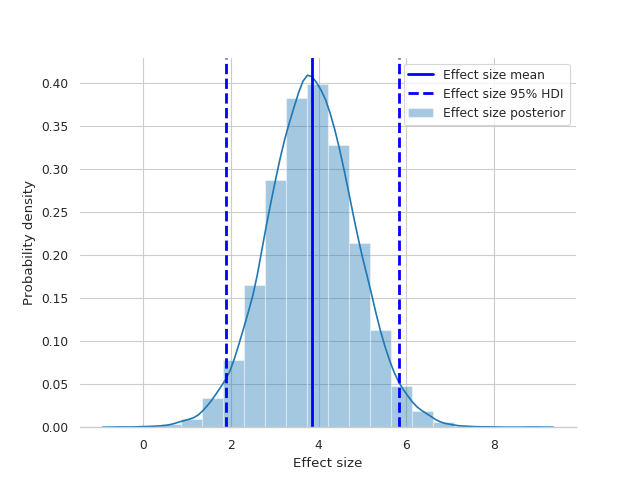
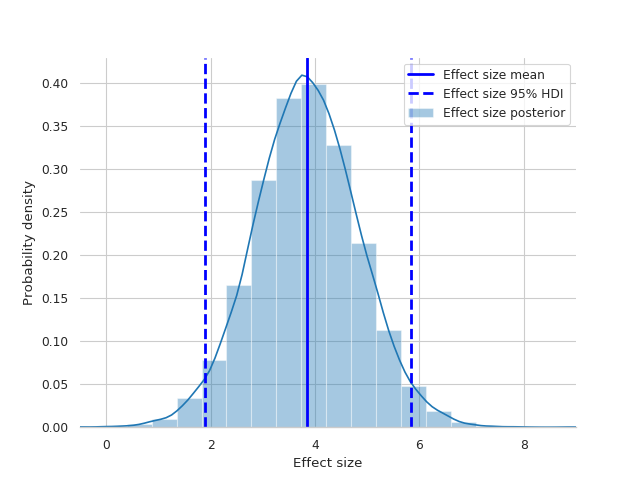
Did the last changes before submission

Changed region(s): [[0.1562, 0.125, 0.7812, 0.9375], [0.8125, 0.9062, 0.8438, 0.9375]]

diff --git a/06-assignment/run.py b/06-assignment/run.py
@@ -54,9 +54,10 @@ def point_1(fit, fit_summary):
 
     child_correction_effect_size = child_posterior_correction / np.std(child_posterior_correction)
 
-    print(f'Adult HDI: {adult_hdi}')
-    print(f'Child HDI: {child_hdi}')
-    print(f'Difference HDI: {diff_hdi}')
+    print(f'Adult mean: {adult_mean:.2f}, HDI: {adult_hdi}')
+    print(f'Child mean: {child_mean:.2f}, HDI: {child_hdi}')
+    print(f'Difference mean: {diff_mean:.2f}, HDI: {diff_hdi}')
+    print(f'Effect mean: {np.mean(child_correction_effect_size):.2f}, HDI: {hdi(child_correction_effect_size)}')
 
     plt.figure()
     sns.distplot(adult_posterior_mu, bins=20, norm_hist=True, label='Adult log posterior μ')
@@ -85,6 +86,7 @@ def point_1(fit, fit_summary):
     sns.despine(left=True)
     plt.xlabel('Difference in posterior log reaction times')
     plt.ylabel('Probability density')
+    plt.xlim(-0.1, 0.9)
     plt.savefig('06-assignment/normal/posterior_log_reaction_difference.png')
 
     plt.figure()
@@ -94,6 +96,7 @@ def point_1(fit, fit_summary):
     sns.despine(left=True)
     plt.xlabel('Effect size')
     plt.ylabel('Probability density')
+    plt.xlim(-0.5, 9)
     plt.savefig('06-assignment/normal/effect_size.png')
 
 def point_2(fit, fit_summary):
@@ -108,6 +111,10 @@ def point_2(fit, fit_summary):
     tau_diff = posterior_tau_task_6 - posterior_tau_task_5
     diff_mean = np.mean(tau_diff)
     diff_hdi = hdi(tau_diff)
+    diff_effect = tau_diff / np.std(tau_diff)
+
+    print(f'τ difference mean: {diff_mean:.2f}, HDI: {diff_hdi}')
+    print(f'Effect on τ mean: {np.mean(diff_effect):.2f}, HDI: {hdi(diff_effect)}')
 
     plt.figure()
     plot_dist_mean_hdi(posterior_tau_task_6, color='b', label='Task 6')
@@ -119,8 +126,28 @@ def point_2(fit, fit_summary):
     plt.ylabel('Probability density')
     plt.savefig('06-assignment/normal/posterior_tau_comparison.png')
 
-def point_3():
-    print('Instructions unclear')
+def point_3(fit, fit_summary):
+    #adult_mean = fit_summary
+    adult_mean = fit_summary.loc['mu[1]', 'mean']
+    child_mean = fit_summary.loc['mu[1]', 'mean'] + fit_summary.loc['mu[2]', 'mean']
+    single_mean_task_5 = 5.76
+    standard_deviation_task_5 = 0.28
+    standard_deviation = fit_summary.loc['tau', 'mean']
+    log_reaction_time = np.linspace(4.5, 7, 1001)
+
+    adult_pdf = stats.norm.pdf(log_reaction_time, adult_mean, standard_deviation)
+    child_pdf = stats.norm.pdf(log_reaction_time, child_mean, standard_deviation)
+    task_5_pdf = stats.norm.pdf(log_reaction_time, single_mean_task_5, standard_deviation_task_5)
+
+    plt.figure()
+    sns.lineplot(log_reaction_time, adult_pdf, label='Adult')
+    sns.lineplot(log_reaction_time, child_pdf, label='Child')
+    sns.lineplot(log_reaction_time, task_5_pdf, label='Task 5')
+
+    plt.ylabel('Probability density')
+    plt.xlabel('Log reaction time')
+    sns.despine(left=True)
+    plt.savefig('06-assignment/normal/prior_pdfs.png')
 
 def point_4(fit, fit_summary):
     num_posterior_samples = (fit.sim['iter'] - fit.sim['warmup']) * fit.sim['chains']
@@ -140,7 +167,6 @@ def point_4(fit, fit_summary):
 
         new_person_theta = np.random.normal(new_person_mu_1 + new_person_mu_2 * is_child, new_person_tau)
         sample_log_reaction_time = np.random.normal(new_person_theta, new_person_sigma, (1, ))
-        #sample_reaction_times = np.exp(sample_log_reaction_times)
         random_person_samples_bernoulli[i] = sample_log_reaction_time
 
     # 10000 random people samples (uninformed with average)
@@ -154,7 +180,6 @@ def point_4(fit, fit_summary):
 
         new_person_theta = np.random.normal(new_person_mu_1 + new_person_mu_2 * 9 / 34, new_person_tau)
         sample_log_reaction_time = np.random.normal(new_person_theta, new_person_sigma, (1, ))
-        #sample_reaction_times = np.exp(sample_log_reaction_times)
         random_person_samples_average[i] = sample_log_reaction_time
 
     # 10000 random adults
@@ -167,7 +192,6 @@ def point_4(fit, fit_summary):
 
         new_person_theta = np.random.normal(new_person_mu_1, new_person_tau)
         sample_log_reaction_time = np.random.normal(new_person_theta, new_person_sigma, (1, ))
-        #sample_reaction_times = np.exp(sample_log_reaction_times)
         random_adult_samples[i] = sample_log_reaction_time
 
     # 10000 random children
@@ -206,6 +230,17 @@ def point_4(fit, fit_summary):
     plt.ylabel('Probability density')
     plt.savefig('06-assignment/normal/posterior_predictive_check.png')
 
+    plt.figure()
+    sns.distplot(np.exp(uninformed_random_people_samples), bins=20, norm_hist=True, label='Uninformed random person')
+    sns.distplot(np.exp(random_adult_samples), bins=20, norm_hist=True, label='Adult random person')
+    sns.distplot(np.exp(random_child_samples), bins=20, norm_hist=True, label='Child random person')
+
+    plt.legend()
+    sns.despine(left=True)
+    plt.xlabel('Reaction time (ms)')
+    plt.ylabel('Probability density')
+    plt.savefig('06-assignment/normal/posterior_predictive_check_ms.png')
+
 def main():
     with open('06-assignment/data.json') as json_file:
         data = json.load(json_file)
@@ -221,7 +256,7 @@ def main():
 
     point_1(fit, fit_summary)
     point_2(fit, fit_summary)
-    point_3()
+    point_3(fit, fit_summary)
     point_4(fit, fit_summary)
 if __name__ == '__main__':
     main()

diff --git a/06-assignment/run-student.py b/06-assignment/run-student.py
@@ -85,6 +85,7 @@ def point_1(fit, fit_summary):
     sns.despine(left=True)
     plt.xlabel('Difference in posterior log reaction times')
     plt.ylabel('Probability density')
+    plt.xlim(-0.1, 0.9)
     plt.savefig('06-assignment/student/posterior_log_reaction_difference.png')
 
     plt.figure()
@@ -94,6 +95,7 @@ def point_1(fit, fit_summary):
     sns.despine(left=True)
     plt.xlabel('Effect size')
     plt.ylabel('Probability density')
+    plt.xlim(-0.5, 9)
     plt.savefig('06-assignment/student/effect_size.png')
 
 def point_2(fit, fit_summary):
@@ -136,10 +138,11 @@ def point_4(fit, fit_summary):
         new_person_mu_2 = fit.extract('mu[2]')['mu[2]'][np.random.randint(num_posterior_samples)]
         new_person_tau = fit.extract('tau')['tau'][np.random.randint(num_posterior_samples)]
         new_person_sigma = fit.extract('sigma')['sigma'][np.random.randint(num_posterior_samples)]
+        new_person_nu = fit.extract('nu')['nu'][np.random.randint(num_posterior_samples)]
         is_child = np.random.binomial(1, 9/34, (1, ))
 
         new_person_theta = np.random.normal(new_person_mu_1 + new_person_mu_2 * is_child, new_person_tau)
-        sample_log_reaction_time = np.random.normal(new_person_theta, new_person_sigma, (1, ))
+        sample_log_reaction_time = stats.t.rvs(new_person_nu, new_person_theta, new_person_sigma, (1, ))
         #sample_reaction_times = np.exp(sample_log_reaction_times)
         random_person_samples_bernoulli[i] = sample_log_reaction_time
 
@@ -151,9 +154,11 @@ def point_4(fit, fit_summary):
         new_person_mu_2 = fit.extract('mu[2]')['mu[2]'][np.random.randint(num_posterior_samples)]
         new_person_tau = fit.extract('tau')['tau'][np.random.randint(num_posterior_samples)]
         new_person_sigma = fit.extract('sigma')['sigma'][np.random.randint(num_posterior_samples)]
+        new_person_nu = fit.extract('nu')['nu'][np.random.randint(num_posterior_samples)]
 
         new_person_theta = np.random.normal(new_person_mu_1 + new_person_mu_2 * 9 / 34, new_person_tau)
-        sample_log_reaction_time = np.random.normal(new_person_theta, new_person_sigma, (1, ))
+        sample_log_reaction_time = stats.t.rvs(new_person_nu, new_person_theta, new_person_sigma, (1, ))
+        #sample_log_reaction_time = np.random.normal(new_person_theta, new_person_sigma, (1, ))
         #sample_reaction_times = np.exp(sample_log_reaction_times)
         random_person_samples_average[i] = sample_log_reaction_time
 
@@ -164,9 +169,11 @@ def point_4(fit, fit_summary):
         new_person_mu_1 = fit.extract('mu[1]')['mu[1]'][np.random.randint(num_posterior_samples)]
         new_person_tau = fit.extract('tau')['tau'][np.random.randint(num_posterior_samples)]
         new_person_sigma = fit.extract('sigma')['sigma'][np.random.randint(num_posterior_samples)]
+        new_person_nu = fit.extract('nu')['nu'][np.random.randint(num_posterior_samples)]
 
         new_person_theta = np.random.normal(new_person_mu_1, new_person_tau)
-        sample_log_reaction_time = np.random.normal(new_person_theta, new_person_sigma, (1, ))
+        #sample_log_reaction_time = np.random.normal(new_person_theta, new_person_sigma, (1, ))
+        sample_log_reaction_time = stats.t.rvs(new_person_nu, new_person_theta, new_person_sigma, (1, ))
         #sample_reaction_times = np.exp(sample_log_reaction_times)
         random_adult_samples[i] = sample_log_reaction_time
 
@@ -178,9 +185,11 @@ def point_4(fit, fit_summary):
         new_person_mu_2 = fit.extract('mu[2]')['mu[2]'][np.random.randint(num_posterior_samples)]
         new_person_tau = fit.extract('tau')['tau'][np.random.randint(num_posterior_samples)]
         new_person_sigma = fit.extract('sigma')['sigma'][np.random.randint(num_posterior_samples)]
+        new_person_nu = fit.extract('nu')['nu'][np.random.randint(num_posterior_samples)]
 
         new_person_theta = np.random.normal(new_person_mu_1 + new_person_mu_2, new_person_tau)
-        sample_log_reaction_time = np.random.normal(new_person_theta, new_person_sigma, (1, ))
+        #sample_log_reaction_time = np.random.normal(new_person_theta, new_person_sigma, (1, ))
+        sample_log_reaction_time = stats.t.rvs(new_person_nu, new_person_theta, new_person_sigma, (1, ))
         #sample_reaction_times = np.exp(sample_log_reaction_times)
         random_child_samples[i] = sample_log_reaction_time
 
